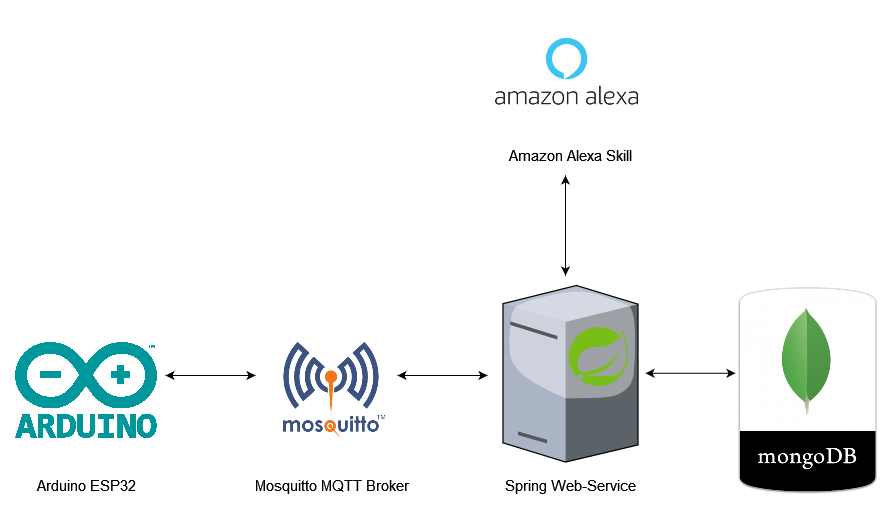
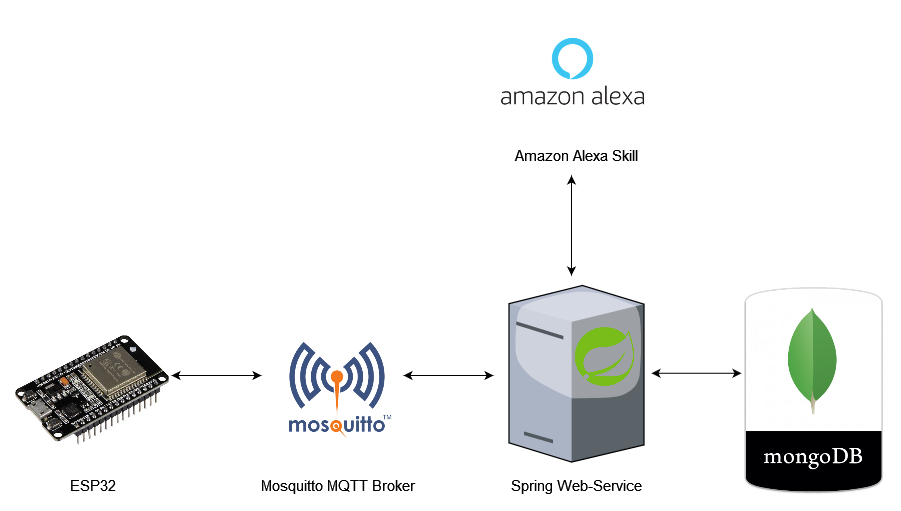
replace arduino with ESP32

diff --git a/README.md b/README.md
@@ -1,5 +1,5 @@
 # irrigation-system
-Irrigation System realized with Arduino, MQTT, Spring
+Irrigation System realized with ESP32, MQTT, Spring
 
 ## Zielsetzung
 Ziel war es eine über einen Alexa-Skill steuerbare, Bewässerungsanlage zu bauen und durch die Automatisierung, der Bewässerung, Wasser zu sparen.
@@ -14,10 +14,10 @@ Der Amazon Alexa Skill dient als Schnittstelle zum User. Der Skill kann Informat
 bietet zwei Modi zum Gießen.
 
 Das Spring Webservice verarbeitet die Requests des Alexa Skills und stellt die Daten der MongoDb bereit.
-Darüber hinaus speichert es die Messergebnisse des Arduinos in die Datenbank und schickt diesem, über den MQTT Broker,
+Darüber hinaus speichert es die Messergebnisse des ESP32 in die Datenbank und schickt diesem, über den MQTT Broker,
 Instruktionen.
 
-Die Bewässerung und Messungen erfolgen über einen Arduino, 
+Die Bewässerung und Messungen erfolgen über einen ESP32, 
 welcher mit einem Feuchtigkeitssensor und einer Wasserpumpe verbunden ist.
 Das IoT Device kommuniziert die Messungen und 
 erhält Instruktionen zum Starten der Wasserpumpe über einen MQTT Broker.
@@ -88,13 +88,13 @@ private IMqttClient createMQttClient(){
         return null;
     }
 ````
-Das Spring Web Service kommuniziert über den MQTT Broker mit dem Arduino und subskribiert dabei auf das Topic ```moisture``` um Messungen zu empfangen und published Instruktionen für den Arduino auf das Topic ```water```.
+Das Spring Web Service kommuniziert über den MQTT Broker mit dem ESP32 und subskribiert dabei auf das Topic ```moisture``` um Messungen zu empfangen und published Instruktionen für den ESP32 auf das Topic ```water```.
 
 Die empfangenen Messungen werden in der MongoDB Datenbank persistiert.
 ![alt text](/images/dbentries.png)
 
 Um mit dem Alexa Skill zu kommunizieren werden Rest Calls benutzt. Im Server werden daher zwei Controller implementiert, welche die Messergebnisse in unterschiedlichen Representation zur Verfügung stellen.
-Zusätzlich kann das Senden einer Bewässerungsinstruktion an den Arduino über einen Endpoint getriggert werden.
+Zusätzlich kann das Senden einer Bewässerungsinstruktion an den ESP32 über einen Endpoint getriggert werden.
 
 ## Ergebnis
 
